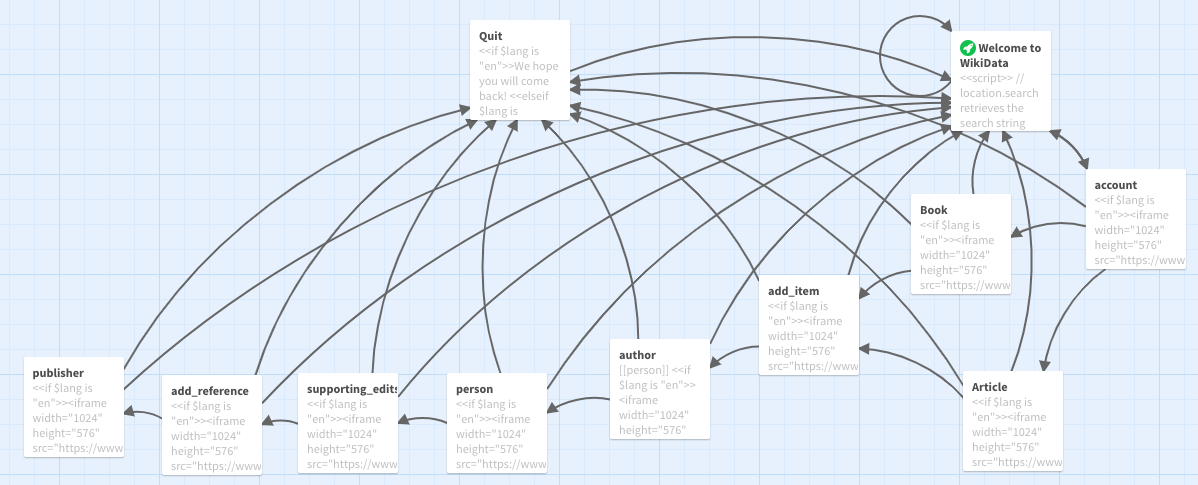
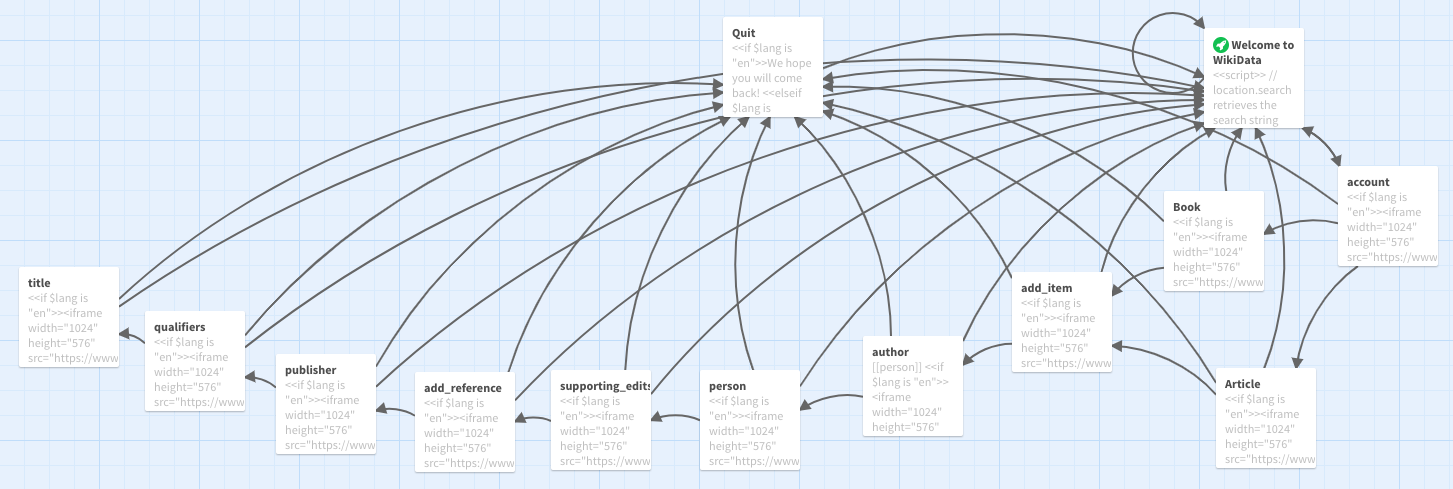
Add passages for qualifiers and title

diff --git a/docs/index.html b/docs/index.html
@@ -98,7 +98,7 @@ var LZString={_keyStr:"ABCDEFGHIJKLMNOPQRSTUVWXYZabcdefghijklmnopqrstuvwxyz01234
 		<div id="init-lacking">Your browser lacks required capabilities. Please upgrade it or switch to another to continue.</div>
 		<div id="init-loading"><div>Loading&hellip;</div></div>
 	</div>
-	<tw-storydata name="Vandycite" startnode="1" creator="Twine" creator-version="2.3.13" ifid="8F70B7EA-6841-4AA4-96E0-1EC724D5D28E" zoom="1" format="SugarCube" format-version="2.34.1" options="" hidden><style role="stylesheet" id="twine-user-stylesheet" type="text/twine-css"></style><script role="script" id="twine-user-script" type="text/twine-javascript"></script><tw-passagedata pid="1" name="Welcome to WikiData" tags="" position="992,57" size="100,100">&lt;&lt;script&gt;&gt;
+	<tw-storydata name="Vandycite" startnode="1" creator="Twine" creator-version="2.3.13" ifid="8F70B7EA-6841-4AA4-96E0-1EC724D5D28E" zoom="1" format="SugarCube" format-version="2.34.1" options="" hidden><style role="stylesheet" id="twine-user-stylesheet" type="text/twine-css"></style><script role="script" id="twine-user-script" type="text/twine-javascript"></script><tw-passagedata pid="1" name="Welcome to WikiData" tags="" position="1305,88" size="100,100">&lt;&lt;script&gt;&gt;
 // location.search retrieves the search string from the URL (including the ?)
 var localID = location.search;
 // set the language only if there is a ? plus additional characters
@@ -124,7 +124,7 @@ Enter language code:&lt;&lt;textbox &quot;$lang&quot; &quot;&quot;&gt;&gt;
 &lt;&lt;else&gt;&gt;Enter language code:&lt;&lt;textbox &quot;$lang&quot; &quot;en&quot;&gt;&gt;
 [[Go|Welcome to WikiData]]
 &lt;&lt;/if&gt;&gt;
-</tw-passagedata><tw-passagedata pid="2" name="Book" tags="" position="952,220" size="100,100">&lt;&lt;if $lang is &quot;en&quot;&gt;&gt;&lt;iframe width=&quot;1024&quot; height=&quot;576&quot; src=&quot;https://www.youtube.com/embed/myKfc8dnqmc&quot; frameborder=&quot;0&quot; allow=&quot;accelerometer; autoplay; clipboard-write; encrypted-media; gyroscope; picture-in-picture&quot; allowfullscreen&gt;&lt;/iframe&gt;
+</tw-passagedata><tw-passagedata pid="2" name="Book" tags="" position="1265,251" size="100,100">&lt;&lt;if $lang is &quot;en&quot;&gt;&gt;&lt;iframe width=&quot;1024&quot; height=&quot;576&quot; src=&quot;https://www.youtube.com/embed/myKfc8dnqmc&quot; frameborder=&quot;0&quot; allow=&quot;accelerometer; autoplay; clipboard-write; encrypted-media; gyroscope; picture-in-picture&quot; allowfullscreen&gt;&lt;/iframe&gt;
 
 &lt;li&gt;We describe the fundamental units of Wikidata, //items//, using statements.&lt;/li&gt;
 &lt;li&gt;A //statement// consists of a //property// and a //value//.&lt;/li&gt;
@@ -164,7 +164,7 @@ Add an [[item|add_item]]
 &lt;&lt;else&gt;&gt;unknown language
 Enter language code:&lt;&lt;textbox &quot;$lang&quot; &quot;&quot;&gt;&gt;
 [[Go|Welcome to WikiData]]
-&lt;&lt;/if&gt;&gt;</tw-passagedata><tw-passagedata pid="3" name="Article" tags="" position="1004,397" size="100,100">&lt;&lt;if $lang is &quot;en&quot;&gt;&gt;&lt;iframe width=&quot;1024&quot; height=&quot;576&quot; src=&quot;https://www.youtube.com/embed/FfXz_fOIz5U&quot; frameborder=&quot;0&quot; allow=&quot;accelerometer; autoplay; clipboard-write; encrypted-media; gyroscope; picture-in-picture&quot; allowfullscreen&gt;&lt;/iframe&gt;
+&lt;&lt;/if&gt;&gt;</tw-passagedata><tw-passagedata pid="3" name="Article" tags="" position="1317,428" size="100,100">&lt;&lt;if $lang is &quot;en&quot;&gt;&gt;&lt;iframe width=&quot;1024&quot; height=&quot;576&quot; src=&quot;https://www.youtube.com/embed/FfXz_fOIz5U&quot; frameborder=&quot;0&quot; allow=&quot;accelerometer; autoplay; clipboard-write; encrypted-media; gyroscope; picture-in-picture&quot; allowfullscreen&gt;&lt;/iframe&gt;
 
 &lt;li&gt;We describe the fundamental units of Wikidata, //items//, using statements.&lt;/li&gt;
 &lt;li&gt;A //statement// consists of a //property// and a //value//.&lt;/li&gt;
@@ -204,14 +204,14 @@ Add an [[item|add_item]]
 &lt;&lt;else&gt;&gt;unknown language
 Enter language code:&lt;&lt;textbox &quot;$lang&quot; &quot;&quot;&gt;&gt;
 [[Go|Welcome to WikiData]]
-&lt;&lt;/if&gt;&gt;</tw-passagedata><tw-passagedata pid="4" name="Quit" tags="" position="511,46" size="100,100">&lt;&lt;if $lang is &quot;en&quot;&gt;&gt;We hope you will come back!
+&lt;&lt;/if&gt;&gt;</tw-passagedata><tw-passagedata pid="4" name="Quit" tags="" position="824,77" size="100,100">&lt;&lt;if $lang is &quot;en&quot;&gt;&gt;We hope you will come back!
 &lt;&lt;elseif $lang is &quot;es&quot;&gt;&gt;¡Esperamos que vuelvas!
 &lt;&lt;elseif $lang is &quot;fr&quot;&gt;&gt;Nous espérons que vous reviendrez!
 &lt;&lt;elseif $lang is &quot;zh-Hans&quot;&gt;&gt;希望您能再度光临！
 &lt;&lt;else&gt;&gt;unknown language
 Enter language code:&lt;&lt;textbox &quot;$lang&quot; &quot;&quot;&gt;&gt;
 [[Go|Welcome to WikiData]]
-&lt;&lt;/if&gt;&gt;</tw-passagedata><tw-passagedata pid="5" name="person" tags="" position="488,399" size="100,100">&lt;&lt;if $lang is &quot;en&quot;&gt;&gt;&lt;iframe width=&quot;1024&quot; height=&quot;576&quot; src=&quot;https://www.youtube.com/embed/u6BxeZ4_PVU&quot; frameborder=&quot;0&quot; allow=&quot;accelerometer; autoplay; clipboard-write; encrypted-media; gyroscope; picture-in-picture&quot; allowfullscreen&gt;&lt;/iframe&gt;
+&lt;&lt;/if&gt;&gt;</tw-passagedata><tw-passagedata pid="5" name="person" tags="" position="801,430" size="100,100">&lt;&lt;if $lang is &quot;en&quot;&gt;&gt;&lt;iframe width=&quot;1024&quot; height=&quot;576&quot; src=&quot;https://www.youtube.com/embed/u6BxeZ4_PVU&quot; frameborder=&quot;0&quot; allow=&quot;accelerometer; autoplay; clipboard-write; encrypted-media; gyroscope; picture-in-picture&quot; allowfullscreen&gt;&lt;/iframe&gt;
 
 &lt;li&gt;To start creating a new item from any page, click the &quot;Create new item&quot; link in the left menu.&lt;/li&gt;
 &lt;li&gt;//Aliases// provide alternate labels for an item. Searches include all aliases in addition to labels.&lt;/li&gt;
@@ -247,7 +247,7 @@ ou [[quitter|Quit]]
 &lt;&lt;else&gt;&gt;unknown language
 Enter language code:&lt;&lt;textbox &quot;$lang&quot; &quot;&quot;&gt;&gt;
 [[Go|Welcome to WikiData]]
-&lt;&lt;/if&gt;&gt;</tw-passagedata><tw-passagedata pid="6" name="add_item" tags="" position="800,301" size="100,100">&lt;&lt;if $lang is &quot;en&quot;&gt;&gt;&lt;iframe width=&quot;1024&quot; height=&quot;576&quot; src=&quot;https://www.youtube.com/embed/b-ONtY2Aa8w&quot; frameborder=&quot;0&quot; allow=&quot;accelerometer; autoplay; clipboard-write; encrypted-media; gyroscope; picture-in-picture&quot; allowfullscreen&gt;&lt;/iframe&gt;
+&lt;&lt;/if&gt;&gt;</tw-passagedata><tw-passagedata pid="6" name="add_item" tags="" position="1113,332" size="100,100">&lt;&lt;if $lang is &quot;en&quot;&gt;&gt;&lt;iframe width=&quot;1024&quot; height=&quot;576&quot; src=&quot;https://www.youtube.com/embed/b-ONtY2Aa8w&quot; frameborder=&quot;0&quot; allow=&quot;accelerometer; autoplay; clipboard-write; encrypted-media; gyroscope; picture-in-picture&quot; allowfullscreen&gt;&lt;/iframe&gt;
 
 &lt;li&gt;If an item is not found during a search, the user is offered an opportunity to create it.&lt;/li&gt;
 &lt;li&gt;New items should always be given a //label// and a //description//. The label names the item and the description helps distinguish items that might have the same label by describing the item.&lt;/li&gt;
@@ -281,7 +281,7 @@ Edit an [[author]] statement.
 &lt;&lt;else&gt;&gt;unknown language
 Enter language code:&lt;&lt;textbox &quot;$lang&quot; &quot;&quot;&gt;&gt;
 [[Go|Welcome to WikiData]]
-&lt;&lt;/if&gt;&gt;</tw-passagedata><tw-passagedata pid="7" name="author" tags="" position="651,365" size="100,100">[[person]]
+&lt;&lt;/if&gt;&gt;</tw-passagedata><tw-passagedata pid="7" name="author" tags="" position="964,396" size="100,100">[[person]]
 &lt;&lt;if $lang is &quot;en&quot;&gt;&gt;&lt;iframe width=&quot;1024&quot; height=&quot;576&quot; src=&quot;https://www.youtube.com/embed/aMrsDJ-sSS4&quot; frameborder=&quot;0&quot; allow=&quot;accelerometer; autoplay; clipboard-write; encrypted-media; gyroscope; picture-in-picture&quot; allowfullscreen&gt;&lt;/iframe&gt;
 
 &lt;li&gt;Values for statements can be linked items or text strings that aren&#39;t linked to anything.&lt;/li&gt;
@@ -316,7 +316,7 @@ Add a [[person]].
 &lt;&lt;else&gt;&gt;unknown language
 Enter language code:&lt;&lt;textbox &quot;$lang&quot; &quot;&quot;&gt;&gt;
 [[Go|Welcome to WikiData]]
-&lt;&lt;/if&gt;&gt;</tw-passagedata><tw-passagedata pid="8" name="supporting_edits" tags="" position="339,399" size="100,100">&lt;&lt;if $lang is &quot;en&quot;&gt;&gt;&lt;iframe width=&quot;1024&quot; height=&quot;576&quot; src=&quot;https://www.youtube.com/embed/J9MlKe_jk6w&quot; frameborder=&quot;0&quot; allow=&quot;accelerometer; autoplay; clipboard-write; encrypted-media; gyroscope; picture-in-picture&quot; allowfullscreen&gt;&lt;/iframe&gt;
+&lt;&lt;/if&gt;&gt;</tw-passagedata><tw-passagedata pid="8" name="supporting_edits" tags="" position="652,430" size="100,100">&lt;&lt;if $lang is &quot;en&quot;&gt;&gt;&lt;iframe width=&quot;1024&quot; height=&quot;576&quot; src=&quot;https://www.youtube.com/embed/J9MlKe_jk6w&quot; frameborder=&quot;0&quot; allow=&quot;accelerometer; autoplay; clipboard-write; encrypted-media; gyroscope; picture-in-picture&quot; allowfullscreen&gt;&lt;/iframe&gt;
 
 &lt;li&gt;Statements in Wikidata are claims that should be supported by links to authoritative material outside of Wikidata.&lt;/li&gt;
 &lt;li&gt;Items that represent written works can be linked to either a well-known identifier like a DOI or PubMed ID.&lt;/li&gt;
@@ -350,7 +350,7 @@ ou [[quitter|Quit]]
 &lt;&lt;else&gt;&gt;unknown language
 Enter language code:&lt;&lt;textbox &quot;$lang&quot; &quot;&quot;&gt;&gt;
 [[Go|Welcome to WikiData]]
-&lt;&lt;/if&gt;&gt;</tw-passagedata><tw-passagedata pid="9" name="add_reference" tags="" position="203,401" size="100,100">&lt;&lt;if $lang is &quot;en&quot;&gt;&gt;&lt;iframe width=&quot;1024&quot; height=&quot;576&quot; src=&quot;https://www.youtube.com/embed/kvsyaKQsKRE&quot; frameborder=&quot;0&quot; allow=&quot;accelerometer; autoplay; clipboard-write; encrypted-media; gyroscope; picture-in-picture&quot; allowfullscreen&gt;&lt;/iframe&gt;
+&lt;&lt;/if&gt;&gt;</tw-passagedata><tw-passagedata pid="9" name="add_reference" tags="" position="516,432" size="100,100">&lt;&lt;if $lang is &quot;en&quot;&gt;&gt;&lt;iframe width=&quot;1024&quot; height=&quot;576&quot; src=&quot;https://www.youtube.com/embed/kvsyaKQsKRE&quot; frameborder=&quot;0&quot; allow=&quot;accelerometer; autoplay; clipboard-write; encrypted-media; gyroscope; picture-in-picture&quot; allowfullscreen&gt;&lt;/iframe&gt;
 
 &lt;li&gt;References are important to support most statements in Wikidata.&lt;/li&gt;
 &lt;li&gt;Only statements that are obvious, like &quot;instance of&quot;, don&#39;t need references.&lt;/li&gt;
@@ -385,12 +385,13 @@ ou [[quitter|Quit]]
 &lt;&lt;else&gt;&gt;unknown language
 Enter language code:&lt;&lt;textbox &quot;$lang&quot; &quot;&quot;&gt;&gt;
 [[Go|Welcome to WikiData]]
-&lt;&lt;/if&gt;&gt;</tw-passagedata><tw-passagedata pid="10" name="publisher" tags="" position="64,383" size="100,100">&lt;&lt;if $lang is &quot;en&quot;&gt;&gt;&lt;iframe width=&quot;1024&quot; height=&quot;576&quot; src=&quot;https://www.youtube.com/embed/I7SHlyiu7i0&quot; frameborder=&quot;0&quot; allow=&quot;accelerometer; autoplay; clipboard-write; encrypted-media; gyroscope; picture-in-picture&quot; allowfullscreen&gt;&lt;/iframe&gt;
+&lt;&lt;/if&gt;&gt;</tw-passagedata><tw-passagedata pid="10" name="publisher" tags="" position="377,414" size="100,100">&lt;&lt;if $lang is &quot;en&quot;&gt;&gt;&lt;iframe width=&quot;1024&quot; height=&quot;576&quot; src=&quot;https://www.youtube.com/embed/I7SHlyiu7i0&quot; frameborder=&quot;0&quot; allow=&quot;accelerometer; autoplay; clipboard-write; encrypted-media; gyroscope; picture-in-picture&quot; allowfullscreen&gt;&lt;/iframe&gt;
 
 &lt;li&gt;The publisher property is important for books and journal articles. Its value is a publisher item.&lt;/li&gt;
 &lt;li&gt;If you use a web page as a reference, you should include values for the “reference URL” and “retrieved” properties.&lt;/li&gt;
 
 Return to [[Welcome to WikiData]]
+[[Add qualifiers|qualifiers]]
 or [[Quit]]
 &lt;&lt;elseif $lang is &quot;es&quot;&gt;&gt;&lt;iframe width=&quot;1024&quot; height=&quot;576&quot; src=&quot;https://www.youtube.com/embed/s7Fh7RE4Q54&quot; frameborder=&quot;0&quot; allow=&quot;accelerometer; autoplay; clipboard-write; encrypted-media; gyroscope; picture-in-picture&quot; allowfullscreen&gt;&lt;/iframe&gt;
 
@@ -398,9 +399,11 @@ or [[Quit]]
 &lt;li&gt;&lt;/li&gt;
 
 Volver al [[Bienvenido a WikiData|Welcome to WikiData]]
+[[Add qualifiers|qualifiers]]
 o [[salir|Quit]]
 &lt;&lt;elseif $lang is &quot;fr&quot;&gt;&gt;
 Retourner au [[Bienvenue sur WikiData|Welcome to WikiData]]
+[[Add qualifiers|qualifiers]]
 ou [[quitter|Quit]]
 
 &lt;&lt;elseif $lang is &quot;zh-Hans&quot;&gt;&gt;&lt;iframe width=&quot;1024&quot; height=&quot;576&quot; src=&quot;https://www.youtube.com/embed/hHu_fbrWLTU&quot; frameborder=&quot;0&quot; allow=&quot;accelerometer; autoplay; clipboard-write; encrypted-media; gyroscope; picture-in-picture&quot; allowfullscreen&gt;&lt;/iframe&gt;
@@ -409,11 +412,12 @@ ou [[quitter|Quit]]
 &lt;li&gt;&lt;/li&gt;
 
 回到[[欢迎使用维基数据|Welcome to WikiData]]
+[[Add qualifiers|qualifiers]]
 回到[[停止工作|Quit]]
 &lt;&lt;else&gt;&gt;unknown language
 Enter language code:&lt;&lt;textbox &quot;$lang&quot; &quot;&quot;&gt;&gt;
 [[Go|Welcome to WikiData]]
-&lt;&lt;/if&gt;&gt;</tw-passagedata><tw-passagedata pid="11" name="account" tags="" position="1126,195" size="100,100">&lt;&lt;if $lang is &quot;en&quot;&gt;&gt;&lt;iframe width=&quot;1024&quot; height=&quot;576&quot; src=&quot;https://www.youtube.com/embed/qxusCaEu6hQ&quot; frameborder=&quot;0&quot; allow=&quot;accelerometer; autoplay; clipboard-write; encrypted-media; gyroscope; picture-in-picture&quot; allowfullscreen&gt;&lt;/iframe&gt;
+&lt;&lt;/if&gt;&gt;</tw-passagedata><tw-passagedata pid="11" name="account" tags="" position="1439,226" size="100,100">&lt;&lt;if $lang is &quot;en&quot;&gt;&gt;&lt;iframe width=&quot;1024&quot; height=&quot;576&quot; src=&quot;https://www.youtube.com/embed/qxusCaEu6hQ&quot; frameborder=&quot;0&quot; allow=&quot;accelerometer; autoplay; clipboard-write; encrypted-media; gyroscope; picture-in-picture&quot; allowfullscreen&gt;&lt;/iframe&gt;
 
 &lt;li&gt;It is better to create an account and edit while you are logged in because people will believe that your edits are more reliable.&lt;/li&gt;
 &lt;li&gt;You only need to provide a username and password to open an account. An email address is optional if you are concerned about privacy.&lt;/li&gt;
@@ -447,6 +451,72 @@ ou [[quitter|Quit]]
 回到[[欢迎使用维基数据|Welcome to WikiData]]
 Edit a [[book|Book]]
 Edit an [[article|Article]]
+回到[[停止工作|Quit]]
+&lt;&lt;else&gt;&gt;unknown language
+Enter language code:&lt;&lt;textbox &quot;$lang&quot; &quot;&quot;&gt;&gt;
+[[Go|Welcome to WikiData]]
+&lt;&lt;/if&gt;&gt;</tw-passagedata><tw-passagedata pid="12" name="qualifiers" tags="" position="246,370.5" size="100,100">&lt;&lt;if $lang is &quot;en&quot;&gt;&gt;&lt;iframe width=&quot;1024&quot; height=&quot;576&quot; src=&quot;https://www.youtube.com/embed/FOAlp5VIb9Q&quot; frameborder=&quot;0&quot; allow=&quot;accelerometer; autoplay; clipboard-write; encrypted-media; gyroscope; picture-in-picture&quot; allowfullscreen&gt;&lt;/iframe&gt;
+
+&lt;li&gt;Qualifiers help us to understand the context of statements.&lt;/li&gt;
+&lt;li&gt;Qualifiers can distinguish between different values for the same property. For example, they may help us know the order of values, or give the time period where a value was valid.&lt;/li&gt;
+
+Return to [[Welcome to WikiData]]
+[[Add a title|title]]
+or [[Quit]]
+&lt;&lt;elseif $lang is &quot;es&quot;&gt;&gt;&lt;iframe width=&quot;1024&quot; height=&quot;576&quot; src=&quot;https://www.youtube.com/embed/LasPs6rVO6w&quot; frameborder=&quot;0&quot; allow=&quot;accelerometer; autoplay; clipboard-write; encrypted-media; gyroscope; picture-in-picture&quot; allowfullscreen&gt;&lt;/iframe&gt;
+
+&lt;li&gt;&lt;/li&gt;
+&lt;li&gt;&lt;/li&gt;
+
+Volver al [[Bienvenido a WikiData|Welcome to WikiData]]
+[[Add a title|title]]
+o [[salir|Quit]]
+&lt;&lt;elseif $lang is &quot;fr&quot;&gt;&gt;
+Retourner au [[Bienvenue sur WikiData|Welcome to WikiData]]
+[[Add a title|title]]
+ou [[quitter|Quit]]
+
+&lt;&lt;elseif $lang is &quot;zh-Hans&quot;&gt;&gt;&lt;iframe width=&quot;1024&quot; height=&quot;576&quot; src=&quot;https://www.youtube.com/embed/v2Ke5Z6eTaE&quot; frameborder=&quot;0&quot; allow=&quot;accelerometer; autoplay; clipboard-write; encrypted-media; gyroscope; picture-in-picture&quot; allowfullscreen&gt;&lt;/iframe&gt;
+
+&lt;li&gt;&lt;/li&gt;
+&lt;li&gt;&lt;/li&gt;
+
+回到[[欢迎使用维基数据|Welcome to WikiData]]
+[[Add a title|title]]
+回到[[停止工作|Quit]]
+&lt;&lt;else&gt;&gt;unknown language
+Enter language code:&lt;&lt;textbox &quot;$lang&quot; &quot;&quot;&gt;&gt;
+[[Go|Welcome to WikiData]]
+&lt;&lt;/if&gt;&gt;</tw-passagedata><tw-passagedata pid="13" name="title" tags="" position="120,326.5" size="100,100">&lt;&lt;if $lang is &quot;en&quot;&gt;&gt;&lt;iframe width=&quot;1024&quot; height=&quot;576&quot; src=&quot;https://www.youtube.com/embed/Si7juA6TJS8&quot; frameborder=&quot;0&quot; allow=&quot;accelerometer; autoplay; clipboard-write; encrypted-media; gyroscope; picture-in-picture&quot; allowfullscreen&gt;&lt;/iframe&gt;
+
+&lt;li&gt;The title statement gives the complete title of a work in the language the work was published in.&lt;/li&gt;
+&lt;li&gt;Labels may be the same as titles, but may be different if people typically call the item something else.&lt;/li&gt;
+&lt;li&gt;Monolingual text values are required to specify the language of the string.&lt;/li&gt;
+&lt;li&gt;Usually, a work only has a single title value in the language of publication.&lt;/li&gt;
+
+Return to [[Welcome to WikiData]]
+or [[Quit]]
+&lt;&lt;elseif $lang is &quot;es&quot;&gt;&gt;&lt;iframe width=&quot;1024&quot; height=&quot;576&quot; src=&quot;https://www.youtube.com/embed/&quot; frameborder=&quot;0&quot; allow=&quot;accelerometer; autoplay; clipboard-write; encrypted-media; gyroscope; picture-in-picture&quot; allowfullscreen&gt;&lt;/iframe&gt;
+
+&lt;li&gt;&lt;/li&gt;
+&lt;li&gt;&lt;/li&gt;
+&lt;li&gt;&lt;/li&gt;
+&lt;li&gt;&lt;/li&gt;
+
+Volver al [[Bienvenido a WikiData|Welcome to WikiData]]
+o [[salir|Quit]]
+&lt;&lt;elseif $lang is &quot;fr&quot;&gt;&gt;
+Retourner au [[Bienvenue sur WikiData|Welcome to WikiData]]
+ou [[quitter|Quit]]
+
+&lt;&lt;elseif $lang is &quot;zh-Hans&quot;&gt;&gt;&lt;iframe width=&quot;1024&quot; height=&quot;576&quot; src=&quot;https://www.youtube.com/embed/CkumV5ULMxs&quot; frameborder=&quot;0&quot; allow=&quot;accelerometer; autoplay; clipboard-write; encrypted-media; gyroscope; picture-in-picture&quot; allowfullscreen&gt;&lt;/iframe&gt;
+
+&lt;li&gt;&lt;/li&gt;
+&lt;li&gt;&lt;/li&gt;
+&lt;li&gt;&lt;/li&gt;
+&lt;li&gt;&lt;/li&gt;
+
+回到[[欢迎使用维基数据|Welcome to WikiData]]
 回到[[停止工作|Quit]]
 &lt;&lt;else&gt;&gt;unknown language
 Enter language code:&lt;&lt;textbox &quot;$lang&quot; &quot;&quot;&gt;&gt;
